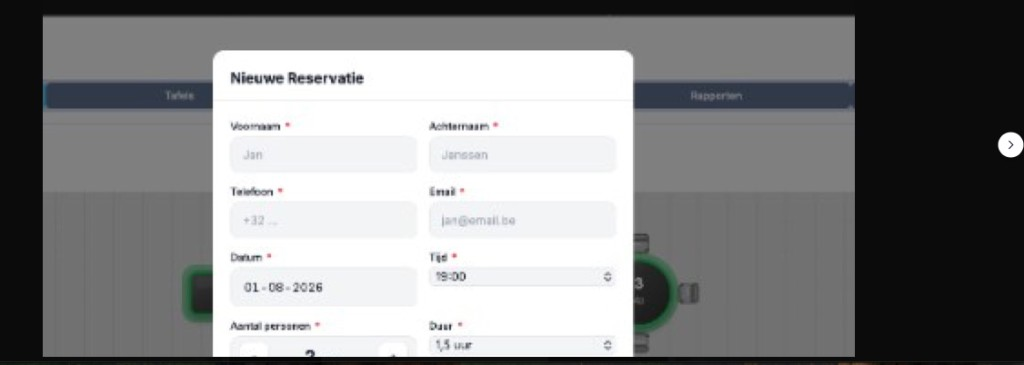
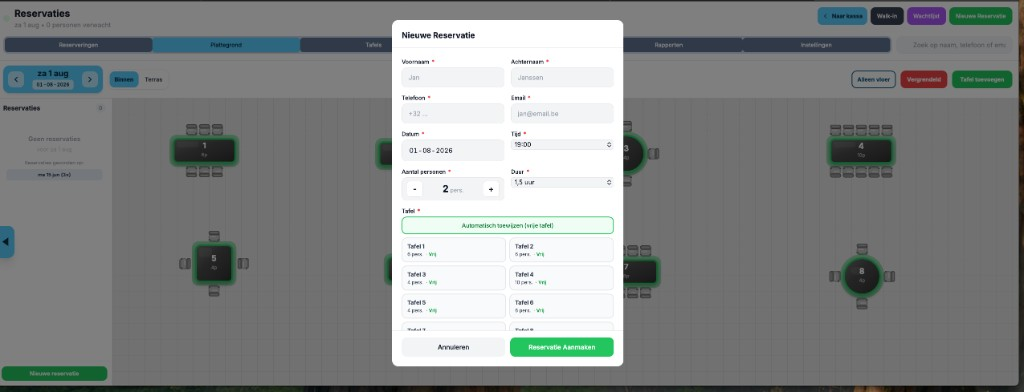
Platform: jouw 5 screenshots 1-op-1 geplakt (v6).
Geen resize/upscale in code meer.

diff --git a/src/components/PlatformShowcaseCarousel.tsx b/src/components/PlatformShowcaseCarousel.tsx
@@ -2,7 +2,7 @@
 
 import { useCallback, useEffect, useState } from 'react'
 
-const ASSET_V = '5'
+const ASSET_V = '6'
 
 export const platformScreenshots = [
   {
@@ -109,7 +109,7 @@ export default function PlatformShowcaseCarousel() {
                   key={current.src}
                   src={current.src}
                   alt={current.alt}
-                  className="platform-shot h-auto w-full max-w-[1024px] select-none"
+                  className="platform-shot h-auto w-full select-none"
                   decoding="async"
                   draggable={false}
                 />
@@ -173,7 +173,7 @@ export default function PlatformShowcaseCarousel() {
               key={`lb-${current.src}`}
               src={current.src}
               alt={current.alt}
-              className="platform-shot-lightbox max-h-[calc(100dvh-6rem)] w-auto max-w-[min(1024px,calc(100vw-8rem))] select-none"
+              className="platform-shot-lightbox h-auto max-h-[calc(100dvh-6rem)] w-full max-w-[min(96vw,1400px)] select-none object-contain"
               decoding="sync"
               draggable={false}
             />

diff --git a/src/app/globals.css b/src/app/globals.css
@@ -120,9 +120,8 @@ body {
   }
 }
 
-/* Platform-screenshots: nooit groter dan 1024 CSS-px (= bronbreedte, geen upscale). */
+/* Platform-screenshots: direct uit /public, geen kunstmatige downscale. */
 #platform .platform-shot,
 .platform-shot-lightbox {
-  max-width: min(100%, 1024px);
   height: auto;
 }
